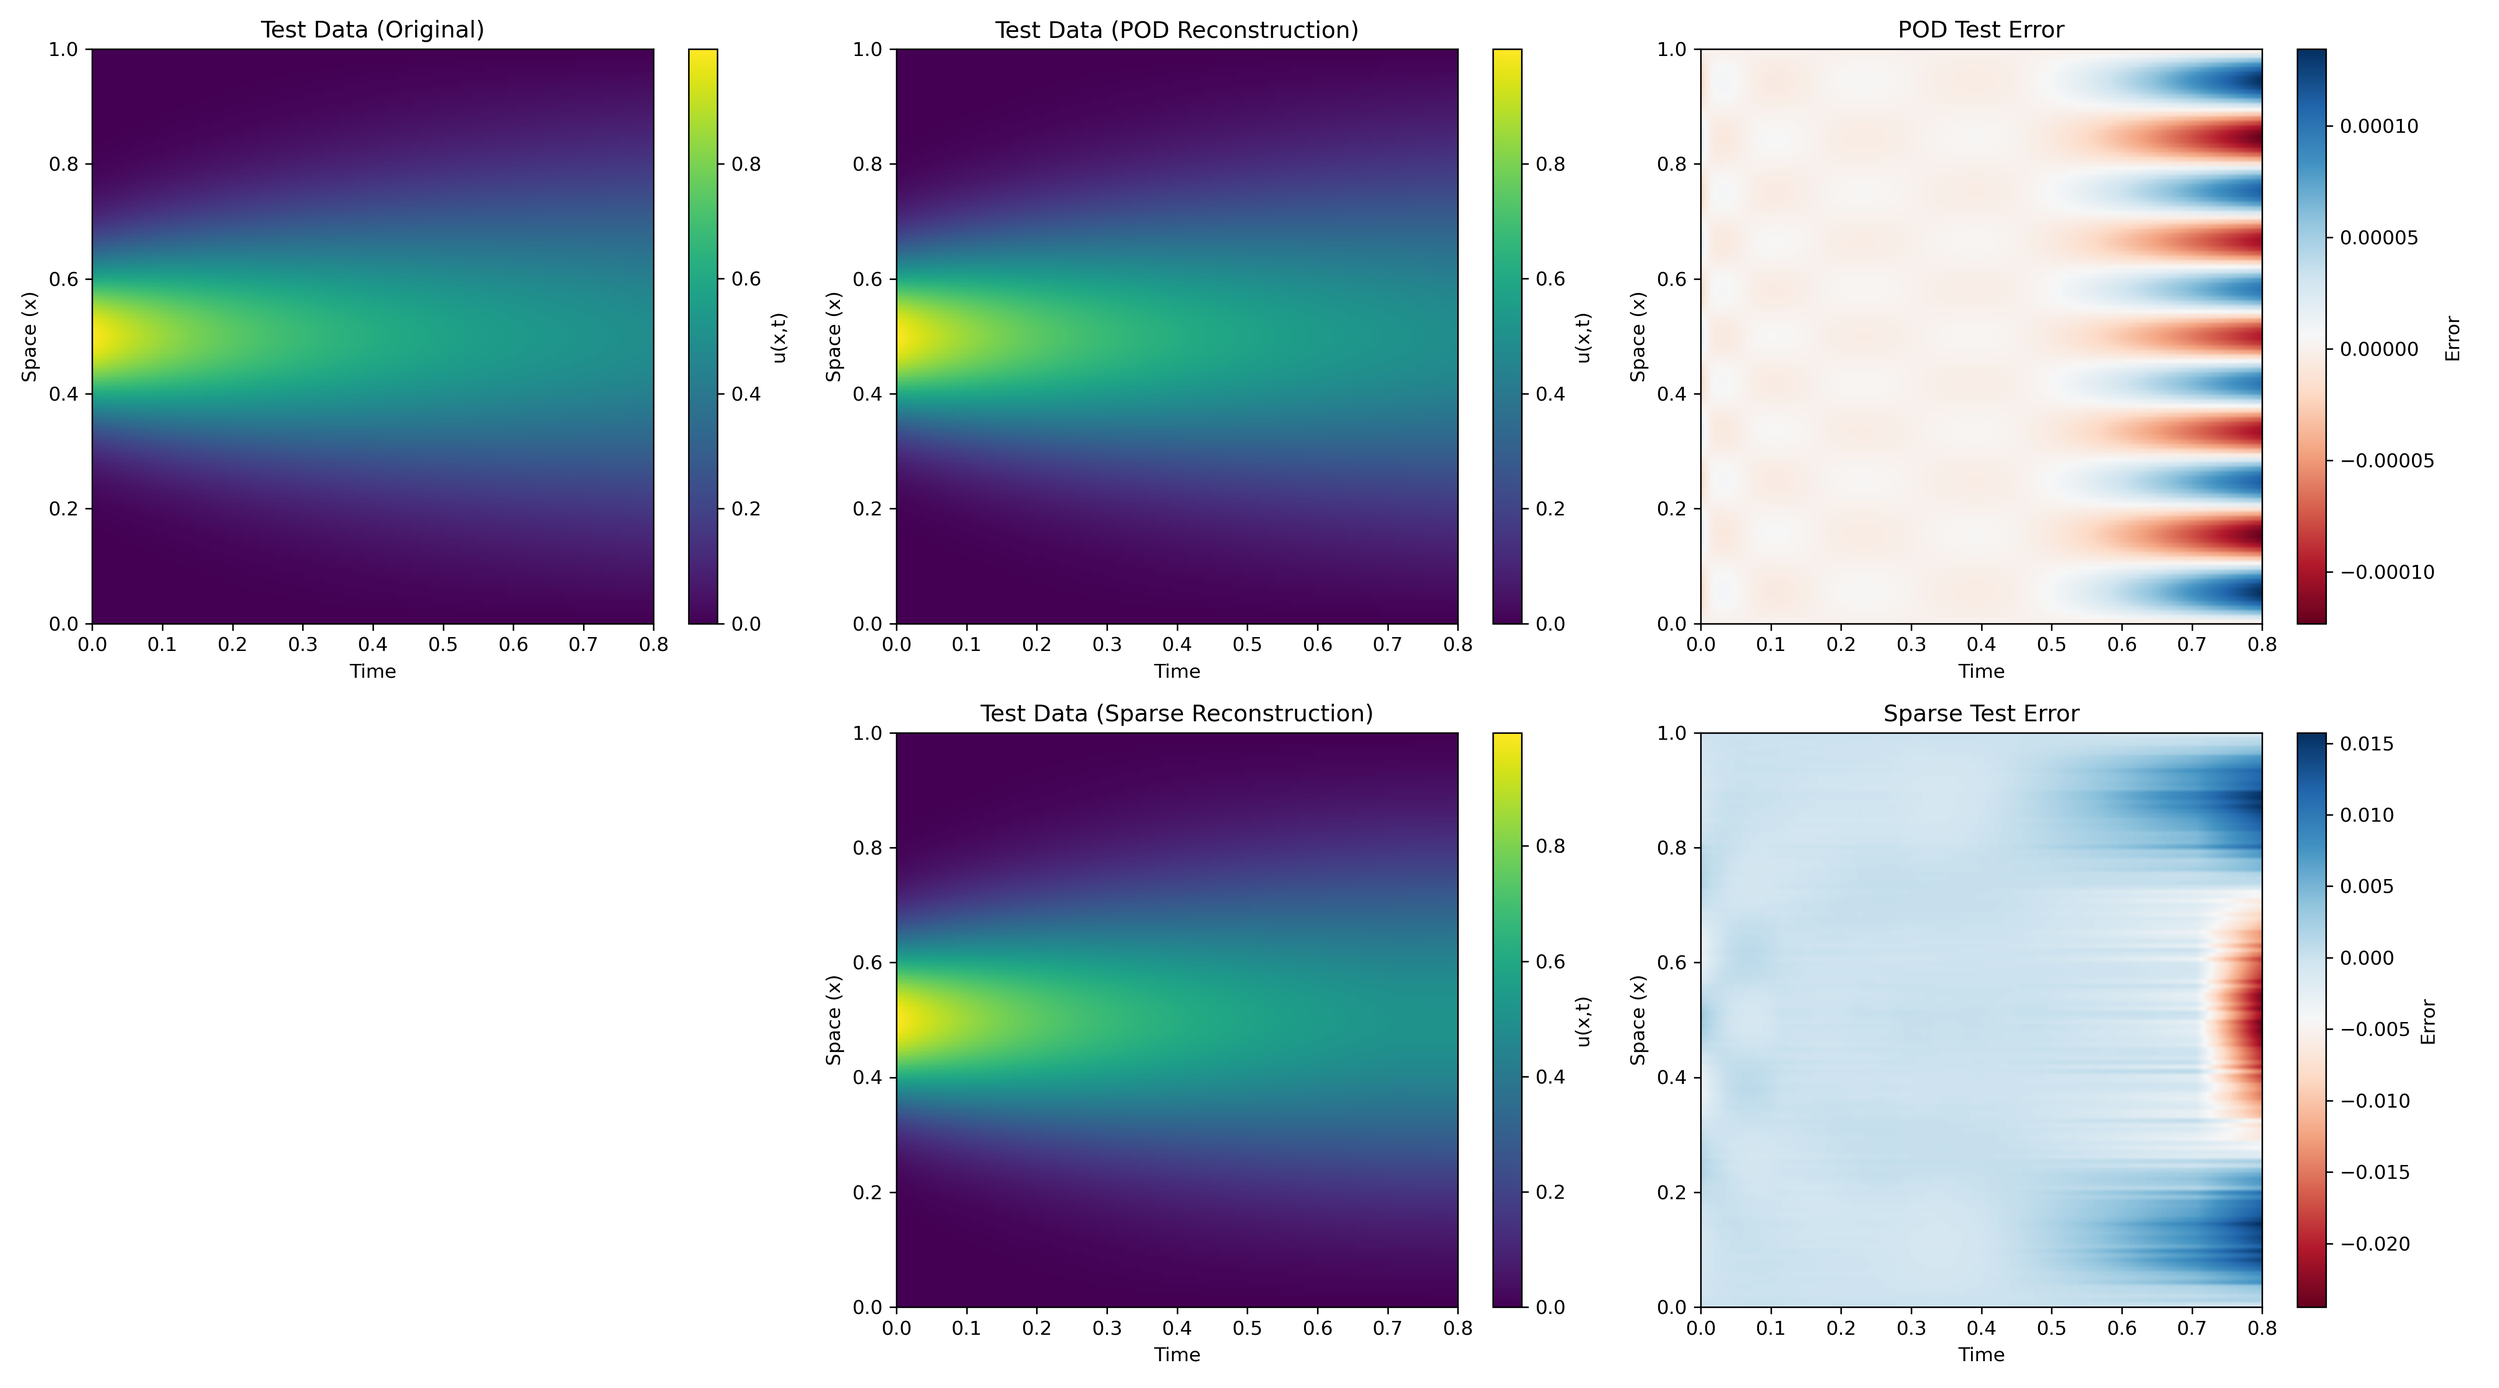
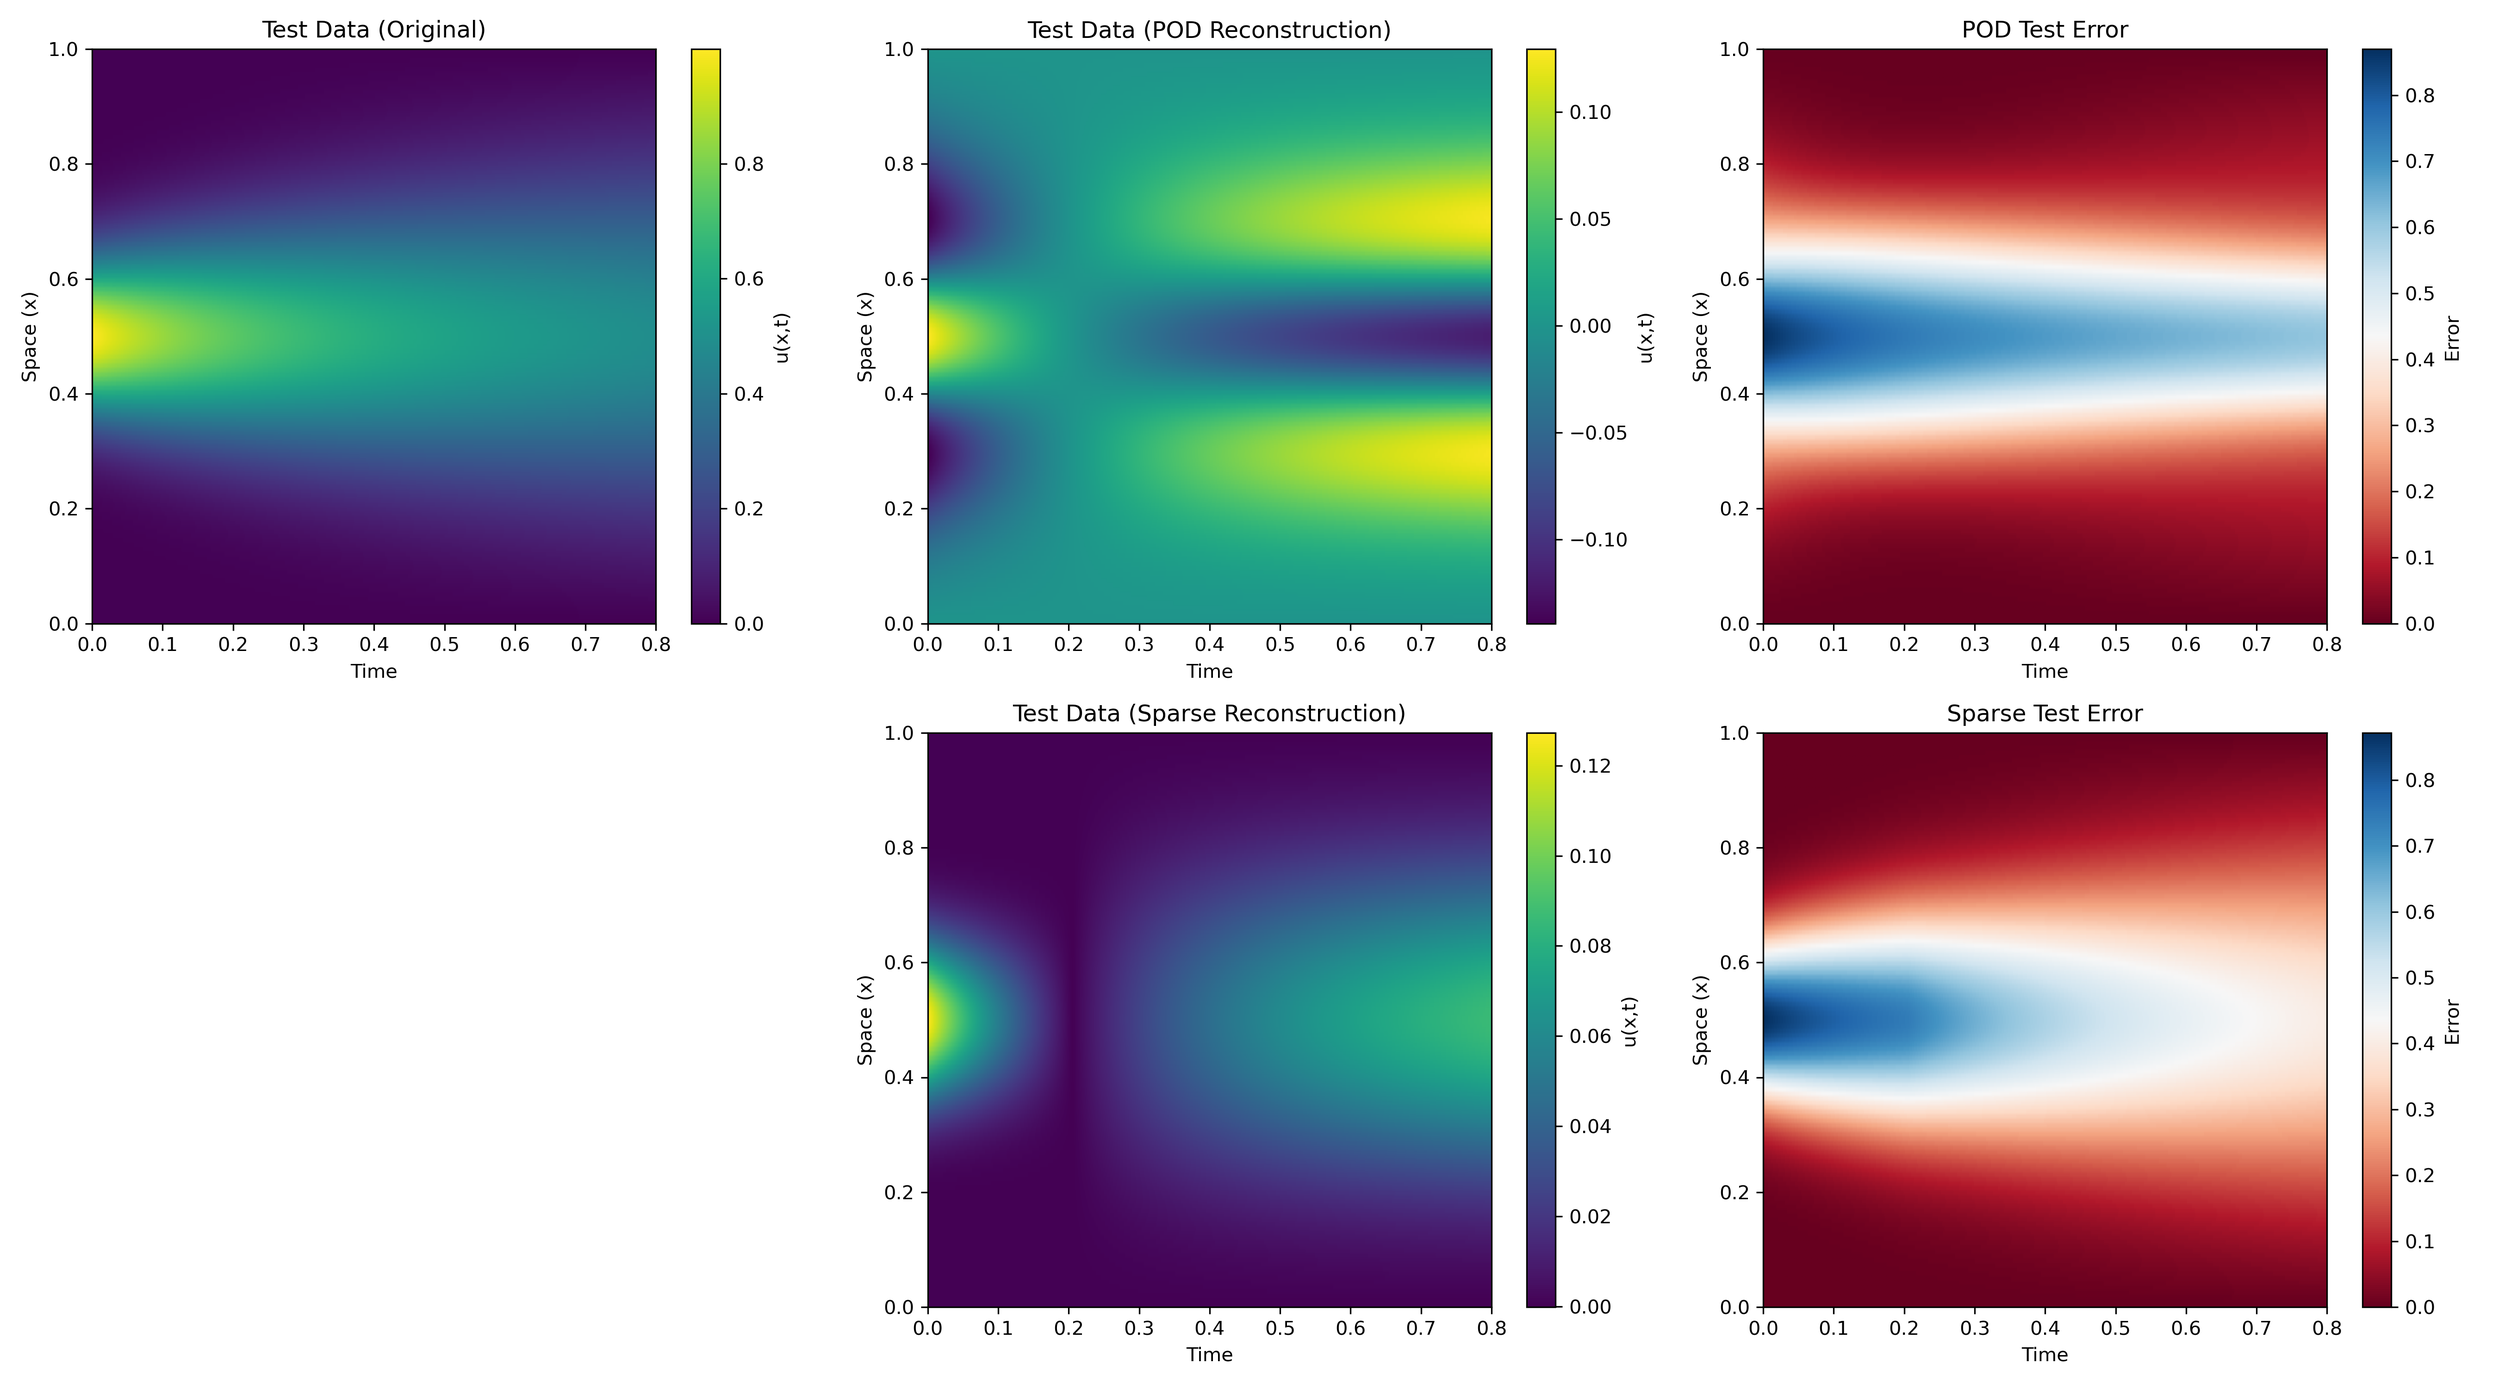
fixing stability selection

diff --git a/experiments/heat1d.py b/experiments/heat1d.py
@@ -25,16 +25,13 @@ if __name__ == "__main__":
     # Regularization parameter selection method
     lambda_method = 'stability'  # 'path', 'cv', or 'stability'
     
-    # Stopping criterion for the regularization path
-    stop_method = 'constraint'
-
     # Common hyperparameters
-    hidden_units_heat = [128, 8256]
-    # hidden_units_heat = [20, 120, 400]
+    # hidden_units_heat = [128, 8256]
+    hidden_units_heat = [20, 120, 400]
 
     # Parameter‐grid for CV or SS (you can customize)
-    lambdas_cv = np.logspace(-6, -2, 10)      # 10 values from 1e-6 to 1e-2
-    lambdas_ss = np.logspace(-2.5, -1.2, 12)  # 12 values from 1e-6 to 1e0
+    lambdas_cv = np.logspace(-2.5, -1.2, 10)  
+    lambdas_ss = np.logspace(-2.1, -1.0, 50)  
     
     # Sanity check flag (plotting)
     sanity_check = False
@@ -65,29 +62,86 @@ if __name__ == "__main__":
         X_np            = X_heat,
         s               = s_h,
         hidden_units    = hidden_units_heat,
-        M               = 2.0,
-        nonzero_thresh  = 1e-7,
+        M               = 5.0,
         lambda_method   = lambda_method,
-        lam0            = 1e-6,         # only used if path
-        epsilon         = 0.10,         # only used if path
+        optimizer       = 'Adam',
+        nonzero_thresh  = 1e-6,
+        r_max           = 10,           # max modes for constraint stopping
+        lam0            = 1e-4,         # only used if path
+        epsilon         = 0.20,         # only used if path
         B_path          = 100,          # epochs per λ for path or final fit
-        max_iters       = 20,           # max iterations for path
+        max_iters       = 100,          # max iterations for path
         lambdas_cv      = lambdas_cv,   # only used if cv
         k_folds         = 5,            # for cv
-        num_epochs_cv   = 20,           # for cv
+        num_epochs_cv   = 80,           # for cv
         lambdas_ss      = lambdas_ss,   # only used if stability
-        B_ss            = 10,           # subsamples per λ for stability
-        pi_thresh       = 0.7,          # threshold for stability
-        num_epochs_sub  = 80,           # epochs per subsample for stability
-        stop_method     = stop_method,
-        aic_alpha       = 0.1,          # significance level for AIC
-        K_max           = 10,           # max modes for constraint stopping
+        B_ss            = 5,            # subsamples per λ for stability
+        pi_thresh       = 0.75,         # threshold for stability
+        num_epochs_ss   = 80,           # epochs per subsample for stability
+        final_epochs_ss = 100,          # epochs for final fit after stability
         lr              = 1e-3,
-        optimizer       = 'Adam',
-        batch_size      = 32,
+        batch_size      = 64,
         device          = device,
         label           = "Heat Equation"
     )
+    
+    #%% Plot L-curve
+    if lambda_method == 'path':
+        fig, ax = plt.subplots(figsize=(8, 6))
+        ax.set_xlabel('L1 Regularization Term (||ω||₁)')
+        ax.set_ylabel('Relative Error')
+        ax.set_title('L-curve for Heat Equation')
+        ax.grid(True, alpha=0.3)
+        for freq in freq_tab:
+            ax.loglog(freq['l1_b'], freq['rel_error'], 'o-', markersize=6, linewidth=2)
+        plt.tight_layout()
+        plt.savefig('../figures/heat_lcurve.png', dpi=300)
+        plt.show()
+        plt.close(fig)
+    
+    #%% Plot the λ vs selected modes and λ vs relative error
+    if lambda_method == 'path':
+        fig, (ax1, ax2, ax3) = plt.subplots(1, 3, figsize=(24, 6))
+        # Extract data
+        lambdas = [freq['lambda'] for freq in freq_tab]
+        num_modes = [freq['nonzero_count'] for freq in freq_tab]
+        rel_errors = [freq['rel_error'] for freq in freq_tab]
+        # Plot 1: λ vs relative error
+        ax1.loglog(lambdas, rel_errors, 'o-', markersize=8, linewidth=2, color='red')
+        ax1.set_xlabel('Regularization Parameter (λ)', fontsize=16)
+        ax1.set_ylabel('Relative Error', fontsize=16)
+        ax1.set_title('λ vs Relative Error', fontsize=18)
+        ax1.tick_params(axis='both', which='major', labelsize=14)
+        ax1.grid(True, alpha=0.3)
+        # Plot 2: λ vs selected modes
+        ax2.semilogx(lambdas, num_modes, 'o-', markersize=8, linewidth=2, color='blue')
+        ax2.set_xlabel('Regularization Parameter (λ)', fontsize=16)
+        ax2.set_ylabel('Number of Selected Modes', fontsize=16)
+        ax2.set_title('λ vs Number of Selected Modes', fontsize=18)
+        ax2.tick_params(axis='both', which='major', labelsize=14)
+        ax2.grid(True, alpha=0.3)
+        # Plot 3: Superimposed plot with dual y-axes
+        color1 = 'blue'
+        color2 = 'red'
+        ax3.set_xlabel('Regularization Parameter (λ)', fontsize=16)
+        ax3.set_ylabel('Number of Selected Modes', color=color1, fontsize=16)
+        line1 = ax3.semilogx(lambdas, num_modes, 'o-', markersize=8, linewidth=2, color=color1, label='Selected Modes')
+        ax3.tick_params(axis='both', which='major', labelsize=14, labelcolor='black')
+        ax3.tick_params(axis='y', labelcolor=color1)
+        ax3.grid(True, alpha=0.3)
+        ax3_twin = ax3.twinx()
+        ax3_twin.set_ylabel('Relative Error', color=color2, fontsize=16)
+        line2 = ax3_twin.loglog(lambdas, rel_errors, 's-', markersize=8, linewidth=2, color=color2, label='Relative Error')
+        ax3_twin.tick_params(axis='y', labelcolor=color2, labelsize=14)
+        ax3.set_title('λ vs Selected Modes & Relative Error', fontsize=18)
+        # Add legend
+        lines = line1 + line2
+        labels = [l.get_label() for l in lines]
+        ax3.legend(lines, labels, loc='center left', fontsize=16)
+        plt.tight_layout()
+        plt.savefig('../figures/heat_lambda_analysis.png', dpi=300)
+        plt.show()
+        plt.close(fig)
 
     #%% Plot the reconstructed flow fields (heatmap)
     V, _, _ = np.linalg.svd(X_heat, full_matrices=False)

diff --git a/src/sparsemodesnet/driver.py b/src/sparsemodesnet/driver.py
@@ -24,13 +24,12 @@ def run_sparsemodesnet(X_np: np.ndarray,
                        max_iters: int,
                        batch_size: int,
                        optimizer: str,
-                       device: str,
-                       label: str):
+                       device: str):
     """
     The original warm-start λ→(1+ε)λ routine that stops when ω=0.
     Exactly the same code we provided earlier in step (3).
     """
-    print(f"\n=== LassoNet-POD (path) on {label}: d={X_np.shape[0]}, n={X_np.shape[1]}, s={s} ===")
+    # print(f"\n=== LassoNet-POD (path) on {label}: d={X_np.shape[0]}, n={X_np.shape[1]}, s={s} ===")
 
     U_s_np, _, _ = compute_pod_basis(X_np, s=s)   # (d, s)
     Z_np = U_s_np.T.dot(X_np)                     # (s, n)
@@ -42,14 +41,6 @@ def run_sparsemodesnet(X_np: np.ndarray,
     dataset_full = PODReconDataset(Z_np=Z_np, X_np=X_np)
     dataloader_full = DataLoader(dataset_full, batch_size=batch_size, shuffle=True, drop_last=False)
 
-    model = SparseModesNet(
-        pod_basis    = U_s_tensor,
-        input_dim    = s,
-        hidden_units = hidden_units,
-        M            = M,
-        lam          = lam0
-    ).to(device)
-
     lam = lam0
     prev_nonzero = s
     path_history = []
@@ -58,8 +49,15 @@ def run_sparsemodesnet(X_np: np.ndarray,
     while True:
         iter_count += 1
         print(f"\n-- Path iteration {iter_count}, λ = {lam:.3e}  (r(λ) prev = {prev_nonzero})")
-        model.lam = float(lam)
-
+        
+        model = SparseModesNet(
+            pod_basis    = U_s_tensor,
+            input_dim    = s,
+            hidden_units = hidden_units,
+            M            = M,
+            lam          = lam
+        ).to(device)
+        
         history = train_sparsemodesnet(model, dataloader_full, B, lr, optimizer, device)
         omega_opt = model.omega.detach().cpu().numpy()
         nonzero_idxs = np.where(np.abs(omega_opt) > nonzero_thresh)[0]
@@ -80,7 +78,7 @@ def run_sparsemodesnet(X_np: np.ndarray,
             'l1_b': np.mean(history['l1_b'])
         })
 
-        print(f"  → at λ={lam:.3e}:  nonzero={curr_nonzero}, rel_err={rel_frob_error:.6e}")
+        print(f"  → at λ={lam:.3e}:  r(λ)={curr_nonzero}, rel_err={rel_frob_error:.6e}")
 
         if curr_nonzero == 0:
             print("All skip-weights have zeroed out. Stopping path.\n")
@@ -95,7 +93,7 @@ def run_sparsemodesnet(X_np: np.ndarray,
 
     omega_opt_final = model.omega.detach().cpu().numpy()
     selected_indices = np.where(np.abs(omega_opt_final) > nonzero_thresh)[0]
-    return model, path_history, selected_indices
+    return path_history, selected_indices
 
 
 def run_sparsemodesnet_with_lambda_selection(
@@ -167,7 +165,7 @@ def run_sparsemodesnet_with_lambda_selection(
         freq_table = path_history
     elif lambda_method == 'stability':
         assert lambdas_ss is not None, "Must pass a grid 'lambdas_ss' for stability selection."
-        lam_star, path_history, S_stable, freqs = select_lambda_stability(
+        lam_star, r_star, path_history, S_stable, freqs = select_lambda_stability(
             X_np             = X_np,
             s                = s,
             hidden_units     = hidden_units,
@@ -190,7 +188,7 @@ def run_sparsemodesnet_with_lambda_selection(
             warnings.warn(
                 f"Method {lambda_method!r} does not exist. Using 'path' method instead." 
             )
-        _, path_history, _ = run_sparsemodesnet(
+        path_history, _ = run_sparsemodesnet(
             X_np           = X_np,
             s              = s,
             hidden_units   = hidden_units,
@@ -204,7 +202,6 @@ def run_sparsemodesnet_with_lambda_selection(
             batch_size     = batch_size,
             optimizer      = optimizer,
             device         = device,
-            label          = label
         )
         lam_star, r_star, err_star = pick_elbow(path_history)
         print(f"[Path-Elbow] Picked λ={lam_star:.3e}, r={r_star}, err={err_star:.6e}")
@@ -214,9 +211,9 @@ def run_sparsemodesnet_with_lambda_selection(
     if r_star == 0:
         print("No modes selected at λ*. Using last entry in path such that r(λ)≤r_max.")
         if r_max is not None: # Find first lambda where nonzero_count < r_max
-            print(f"Searching for first λ with nonzero_count < {r_max} ...")
+            print(f"Searching for first λ with nonzero_count <= {r_max} ...")
             nonzero_counts = np.array([entry['nonzero_count'] for entry in path_history])
-            valid_indices = np.where(nonzero_counts < r_max)[0]
+            valid_indices = np.where(nonzero_counts <= r_max)[0]
             if len(valid_indices) > 0:
                 idx = valid_indices[0]
                 lam_star = path_history[idx]['lambda']

diff --git a/src/sparsemodesnet/select_lambda/stability.py b/src/sparsemodesnet/select_lambda/stability.py
@@ -61,6 +61,11 @@ def select_lambda_stability(X_np: np.ndarray,
         freqs_i = counts[:, i] / float(B)
         stable_count_i = int((freqs_i >= pi_thresh).sum())
         print(f"  → λ = {lam:.3e} | stable features = {stable_count_i} (freq ≥ {pi_thresh})")
+        
+        if stable_count_i == 0:
+            print(f"  → All features dropped out at λ = {lam:.3e}; ")
+            print("  → Stopping SS path early (no features stable at λ > λ*)\n")
+            break
 
     # 2) aggregate into selection probabilities
     freqs   = counts / float(B)           # (s, m)
@@ -74,6 +79,7 @@ def select_lambda_stability(X_np: np.ndarray,
 
     path_history_ss = []
     lambda_star = None
+    r_star = 0
     S_stable_count = len(S_stable)
     set_diff_min = np.inf
     set_diff_min_lam = None
@@ -90,8 +96,8 @@ def select_lambda_stability(X_np: np.ndarray,
         train_sparsemodesnet(model_full, dl_full,
                              num_epochs_ss if final_epochs is None else final_epochs,
                              lr, optimizer, device)
-        b_full = model_full.b.detach().cpu().numpy()
-        S_full = set(np.where(np.abs(b_full) > nonzero_thresh)[0])
+        omega_full = model_full.omega.detach().cpu().numpy()
+        S_full = set(np.where(np.abs(omega_full) > nonzero_thresh)[0])
         
         # Record values for fallback method 
         S_full_count = len(S_full) 
@@ -99,6 +105,7 @@ def select_lambda_stability(X_np: np.ndarray,
         if set_diff_i < set_diff_min:
             set_diff_min = set_diff_i
             set_diff_min_lam = lam
+            r_star = S_full_count
             
         path_history_ss.append({
             'lambda': lam,
@@ -109,6 +116,7 @@ def select_lambda_stability(X_np: np.ndarray,
         print(f"    → selected {len(S_full)} features; need ≥ {len(S_stable)}")
         if S_stable.issubset(S_full):
             lambda_star = lam
+            r_star = S_stable_count
             print(f"  → λ* = {lam:.3e} (covers stable set)\n")
             break
     
@@ -132,7 +140,7 @@ def select_lambda_stability(X_np: np.ndarray,
     #                      lr, optimizer, device)
 
     # print("Final model ready.\n")
-    return lambda_star, path_history_ss, S_stable, freqs
+    return lambda_star, r_star, path_history_ss, S_stable, freqs
 
 
 # def select_lambda_stability(X_np: np.ndarray,
